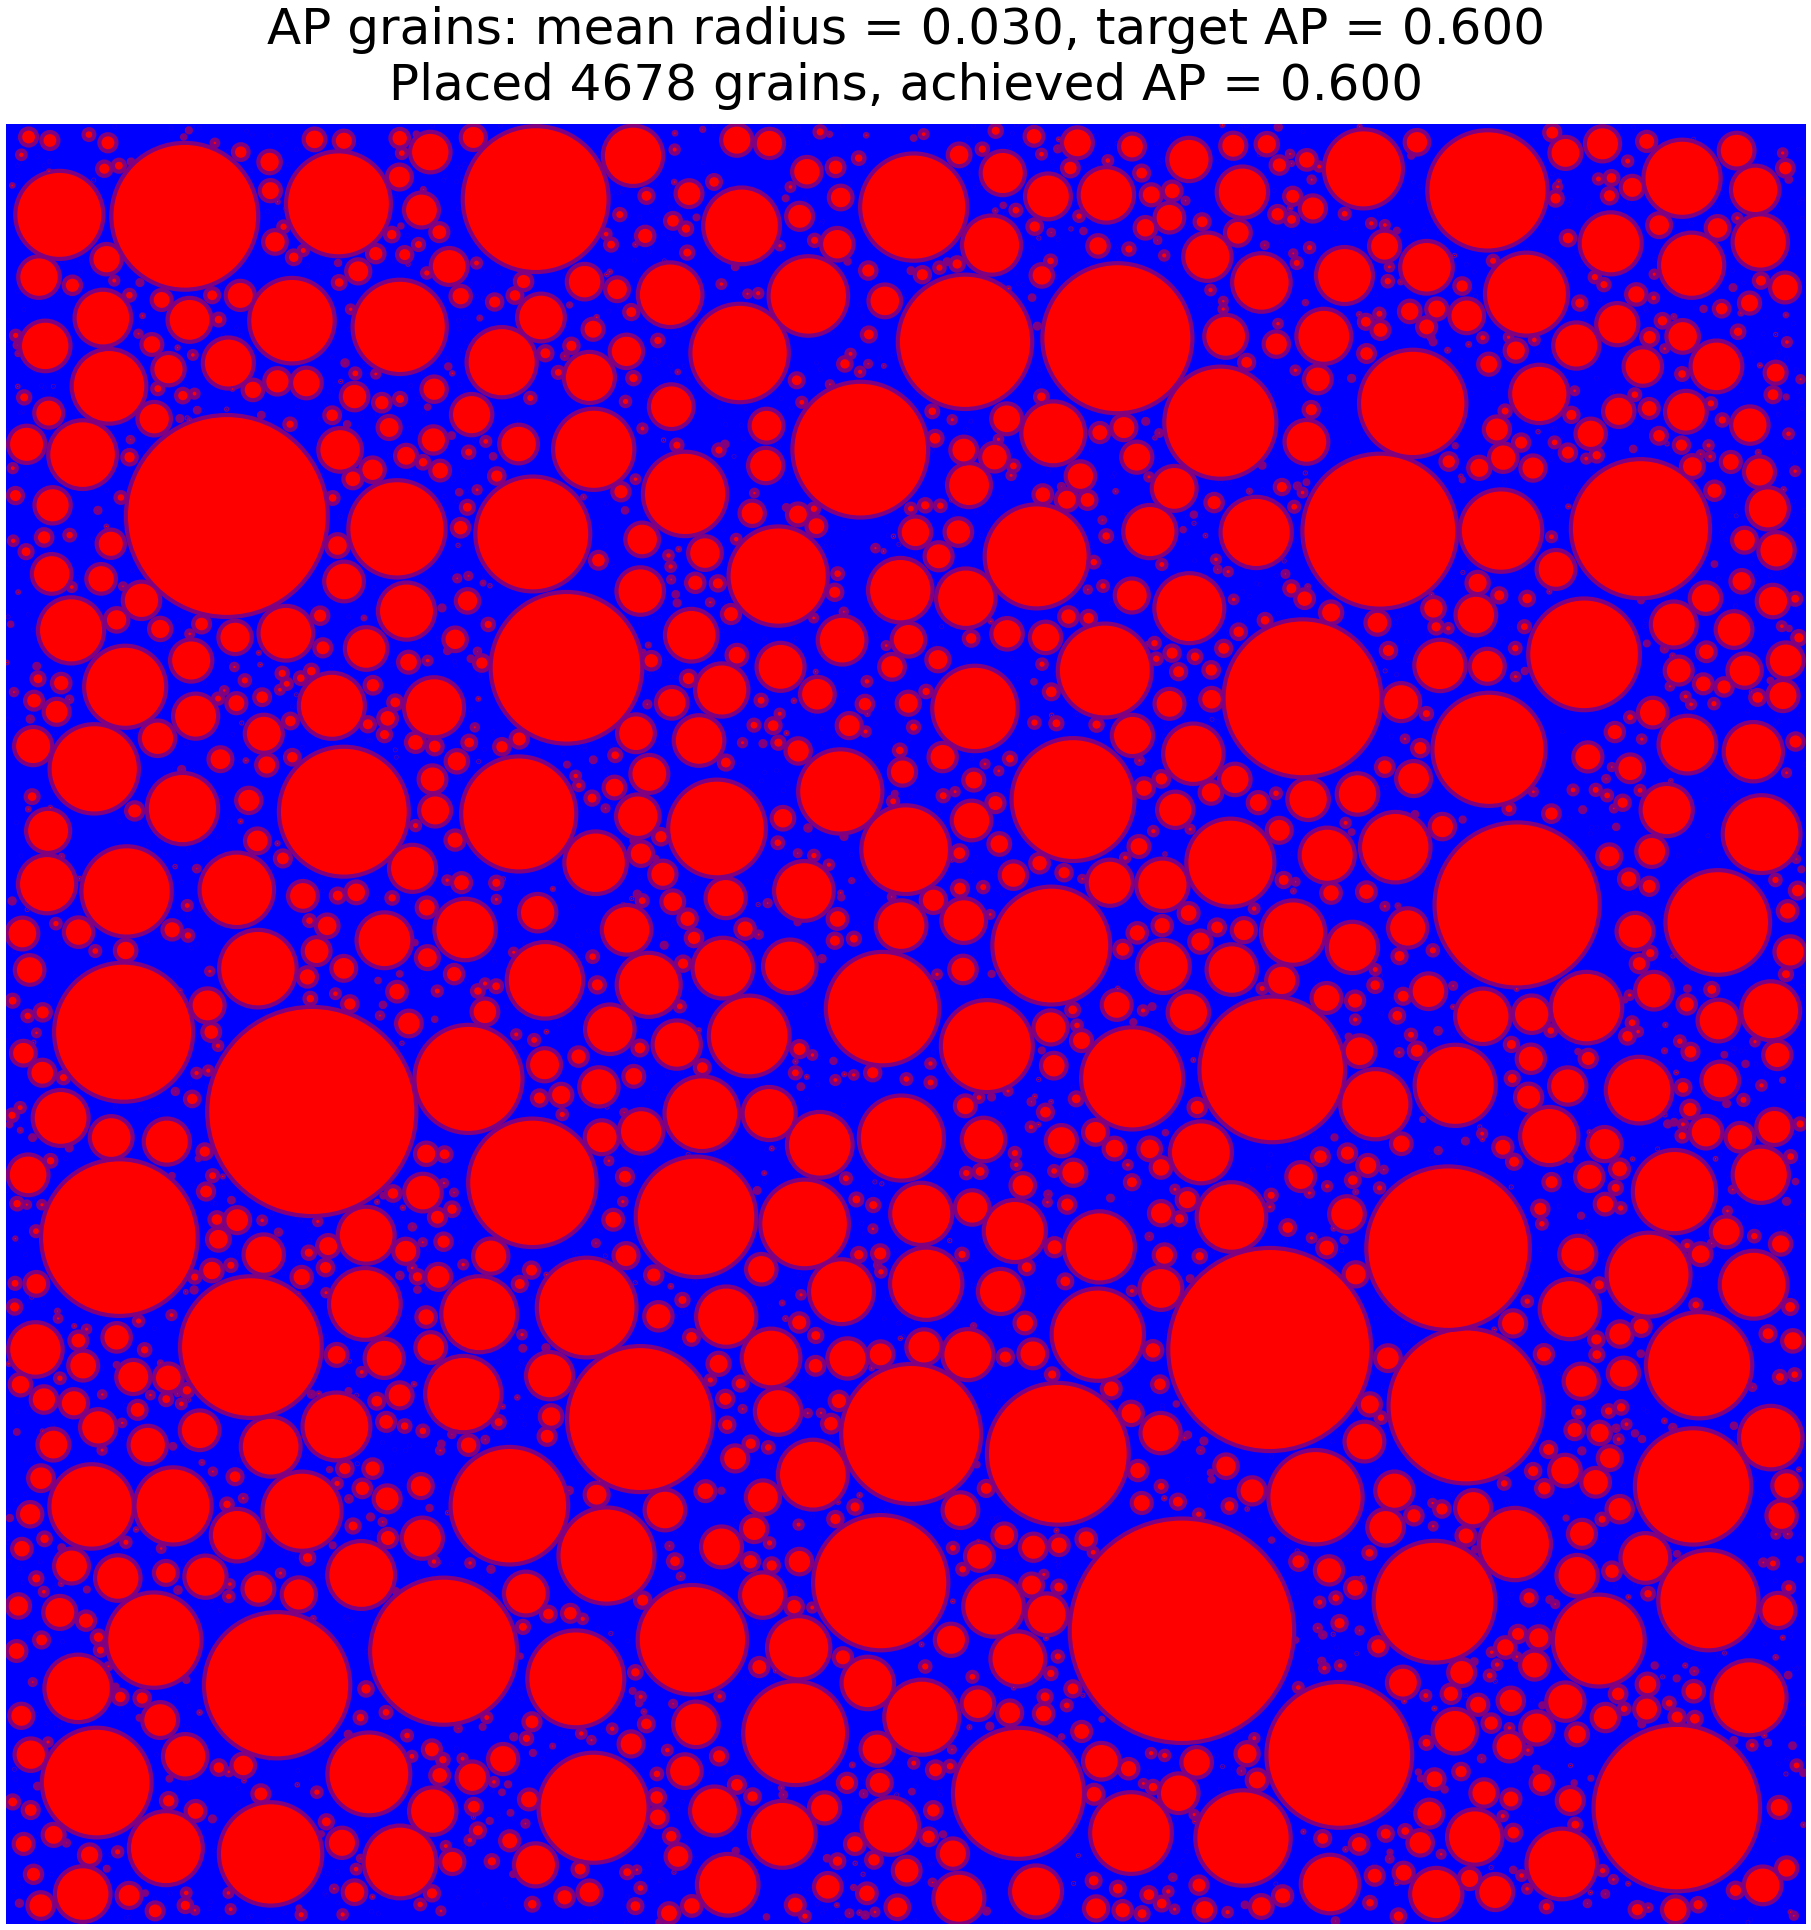
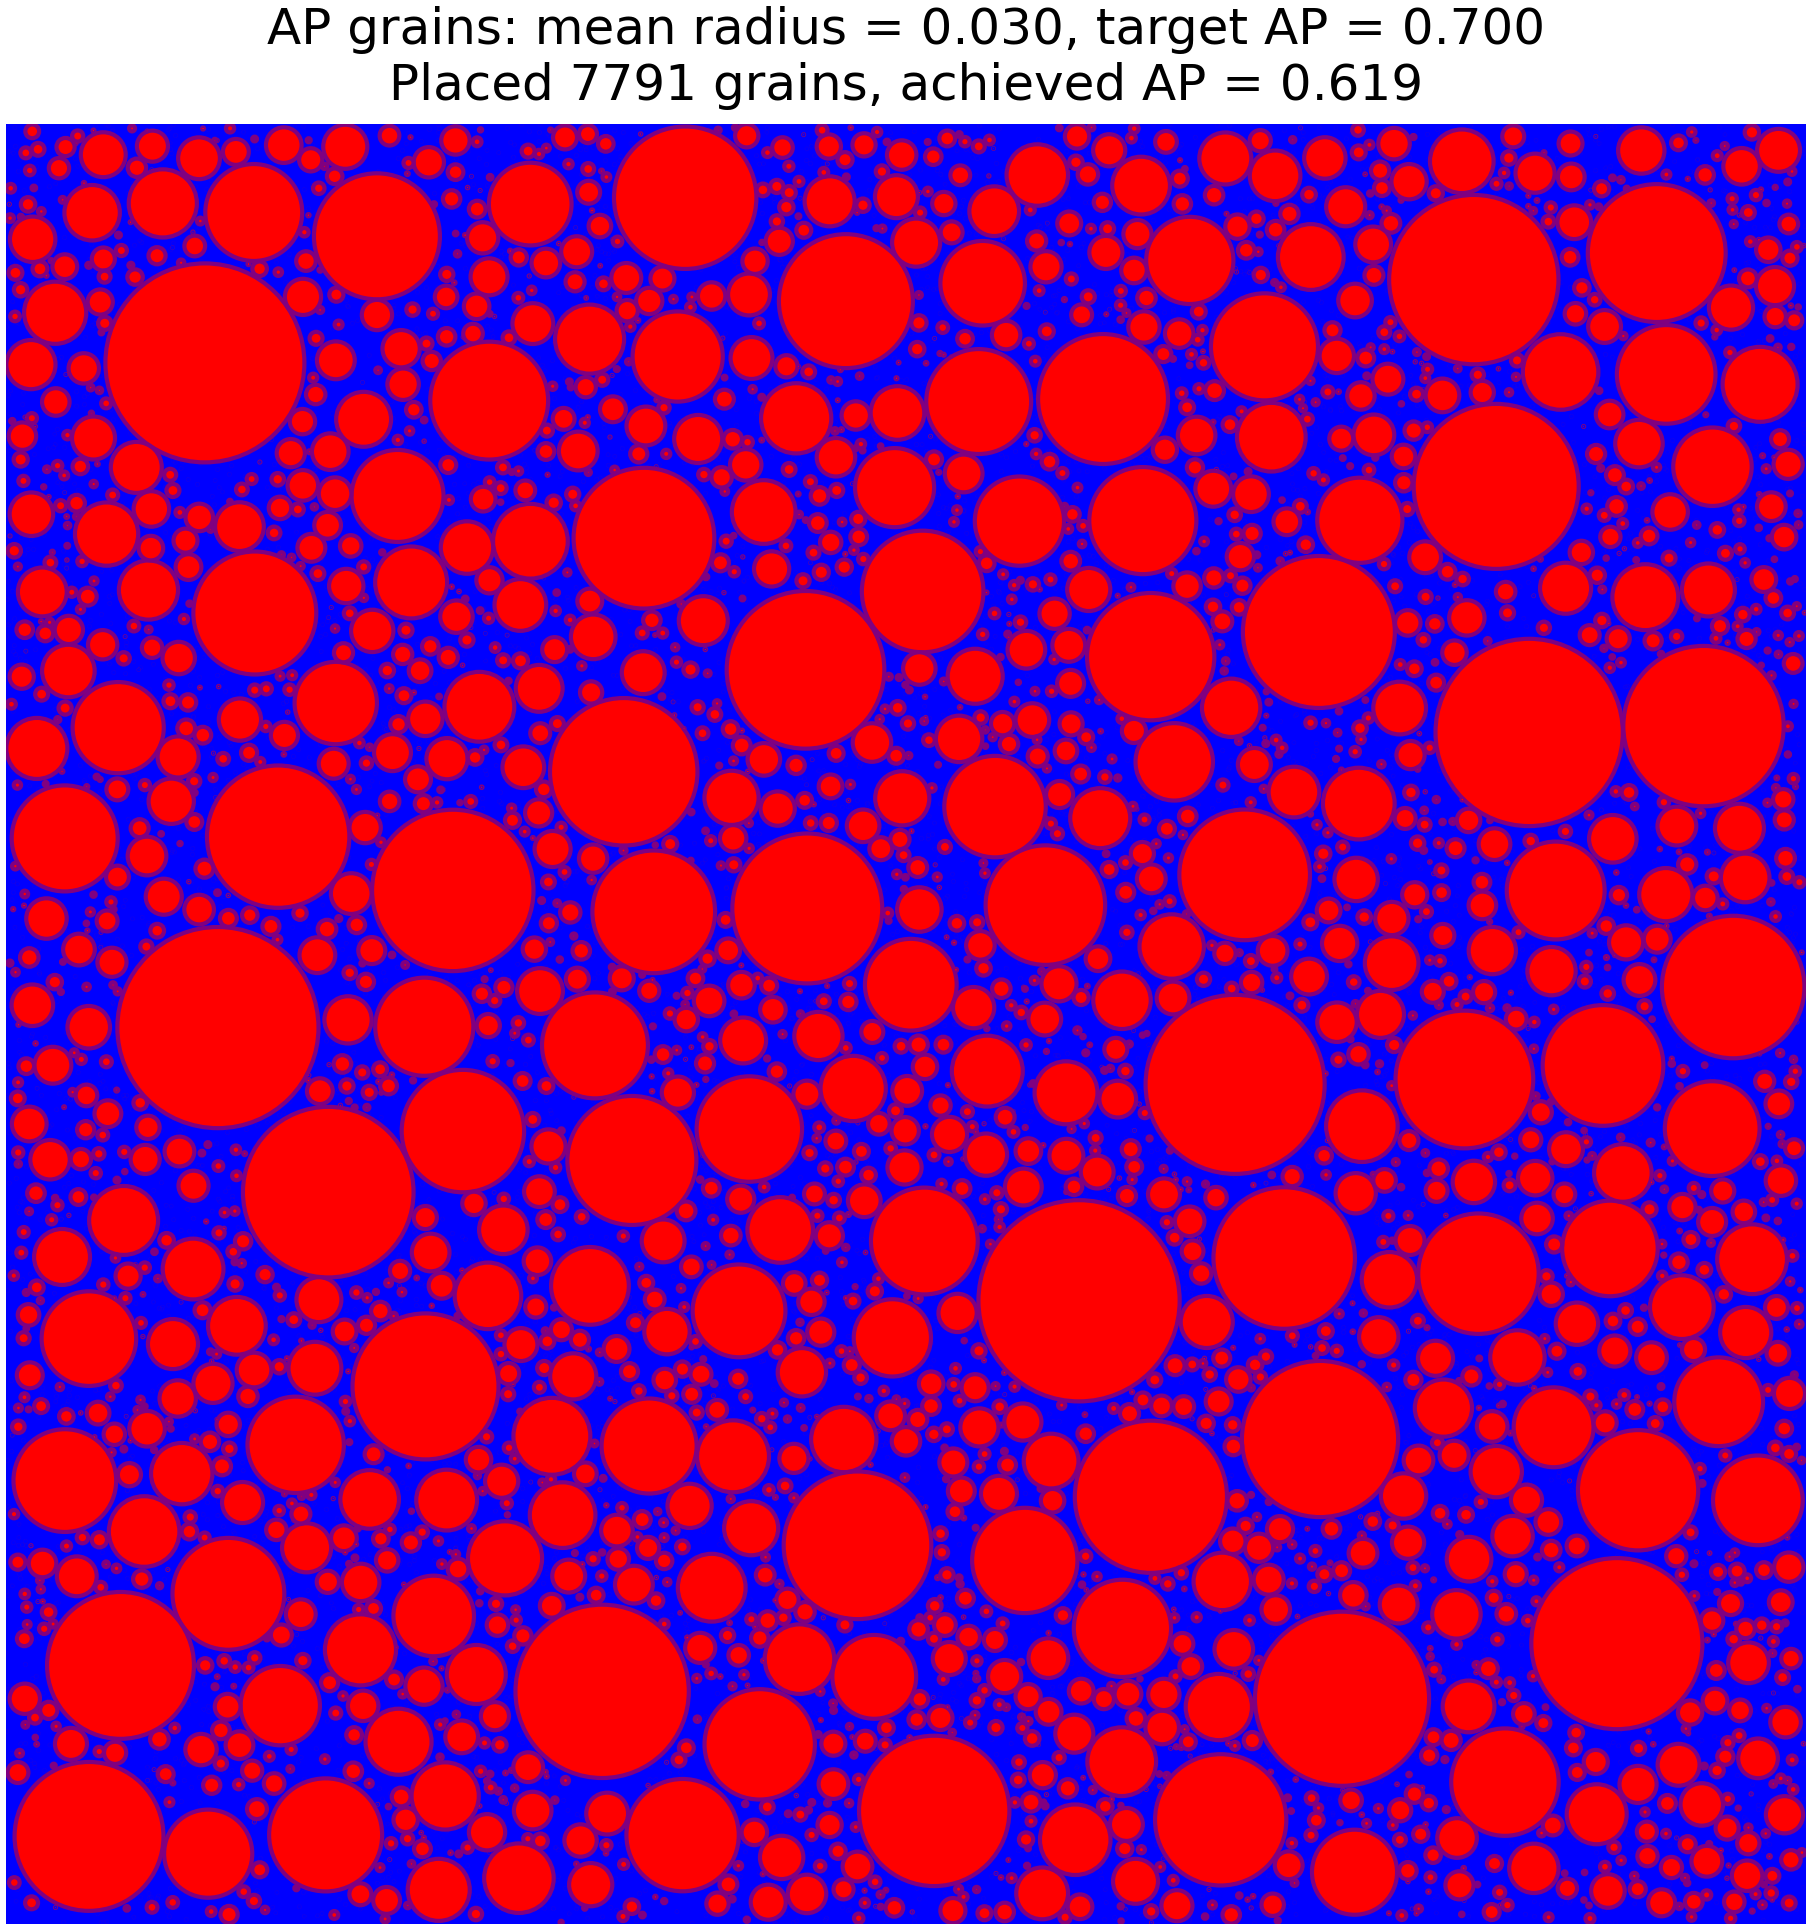
added .gitignore, edited gen_meso

diff --git a/gen_meso.py b/gen_meso.py
@@ -23,6 +23,7 @@ ap_ratio = 0.6 #60% AP
 rad_dev = 0.5 #standard deviation of radius sizes, normal distribution
 max_attempts = 500000 #will try to generate an image 500000 times before it gives up
 
+
 def gen_struct(save_path, save_path_untitled, img_size, mean_radius, ap_ratio, rad_dev, max_attempts):
     '''Generate a 2D microstructure assuming perfect circles, normal distribution
         returns untitled and titled images'''
@@ -45,7 +46,7 @@ def gen_struct(save_path, save_path_untitled, img_size, mean_radius, ap_ratio, r
     attempts = 0
     
     #use grid setup to check for overlap, rather than checking every grain every time
-    cell_size = 2.5 * mean_rad
+    cell_size = 4 * mean_rad
     n_cells = max(1, int(math.ceil(img_size / cell_size))) #numb er of cells in image
     
     grid = [[[] for _ in range(n_cells)] for __ in range(n_cells)] #empty grid
@@ -69,45 +70,64 @@ def gen_struct(save_path, save_path_untitled, img_size, mean_radius, ap_ratio, r
 
     #main function: place AP circles until we get to target area of AP 
     
-    while total_area < target_AP_area and attempts < max_attempts:
-        attempts += 1
+    max_tries = 5  # number of times to retry the whole image
+    success = False
+    best_circles = None
+    best_total_area = 0
+    for retry in range(max_tries):
+        # reset grid and circles
+        circles = []
+        grid = [[[] for _ in range(n_cells)] for __ in range(n_cells)]
+        total_area = 0
+        attempts = 0
         
-        #normal distribution for radii
-
-        #generate a number from normal dist
-        r = float(rng.normal(mean_rad, rad_dev * mean_rad))
-        #ensure no negative values, minimum radius 0.00001
-        r = max(r, 0.00001)
-        #ensure no radii bigger than 1/4 the image's width
-        r = min(r, 0.25 * img_size)
-        
-        #random coordinate for center of circle
-        '''want to see later if this works to plot some outside the domain,
-            and have some circles overlap with the edge of the image'''
-        
-        x = rng.uniform(r, img_size - r) #make sure it stays inside bounds
-        y = rng.uniform(r, img_size - r)
-        
-        #assume placement is valid until overlaps
-        valid = True
-        
-        #check for overlap
-        for (cx, cy, cr) in nearby_candidates(x, y):
-            if (cx - x)**2 + (cy - y)**2 < (cr + r)**2:
-                valid = False
-                break
-
-        if not valid:
-            continue #don't place
+        while total_area < target_AP_area and attempts < max_attempts:
+            attempts += 1
             
-        #accept placement, add to list
-        circles.append((x, y, r))
-        #add to grid
-        gx, gy = cell_coords(x, y)
-        grid[gx][gy].append(len(circles) - 1)
-        
-        total_area += math.pi * r**2
-    
+            #normal distribution for radii
+            #generate a number from normal dist
+            r = float(rng.normal(mean_rad, rad_dev * mean_rad))
+            #ensure no negative values, minimum radius 0.00001
+            r = max(r, 0.00001)
+            #ensure no radii bigger than 1/4 the image's width
+            r = min(r, 0.25 * img_size)
+            
+            #random coordinate for center of circle
+            '''want to see later if this works to plot some outside the domain,
+            and have some circles overlap with the edge of the image'''
+            
+            x = rng.uniform(r, img_size - r) #make sure it stays inside bounds
+            y = rng.uniform(r, img_size - r)
+            
+            #assume placement is valid until overlaps
+            valid = True
+            
+            #check for overlap
+            for (cx, cy, cr) in nearby_candidates(x, y):
+                if (cx - x)**2 + (cy - y)**2 < (cr + r)**2:
+                    valid = False
+                    break
+            
+            if not valid:
+                continue #don't place
+                    
+            #accept placement, add to list
+            circles.append((x, y, r))
+            #add to grid
+            gx, gy = cell_coords(x, y)
+            grid[gx][gy].append(len(circles) - 1)
+            
+            total_area += math.pi * r**2
+            
+            #keep the best try
+            if best_circles is None or abs(total_area - target_AP_area) < abs(best_total_area - target_AP_area):
+                best_circles = circles.copy()
+                best_total_area = total_area
+            
+            if total_area >= target_AP_area - 0.001:
+                break
+    circles = best_circles
+    total_area = best_total_area
     #untitled 1024 x 1024 
     #making the actual figure
     fig2, ax2 = plt.subplots(figsize=(6, 6), dpi=1024/6) #resolution 1024
@@ -156,15 +176,13 @@ def gen_struct(save_path, save_path_untitled, img_size, mean_radius, ap_ratio, r
             f"AP grains: mean radius = {mean_radius:.3f}, target AP = {ap_ratio:.3f}\n"
             f"Placed {len(circles)} grains, achieved AP = {total_area/img_area:.3f}"
     )
-    plt.tight_layout()
     fig.savefig(save_path, dpi=300, bbox_inches="tight", pad_inches=0.02)
     
     plt.close(fig)
-
     
     return save_path, save_path_untitled
 
-    
+
 
 if __name__ == "__main__":
     save_path, save_path_untitled = gen_struct(save_path, save_path_untitled, img_size, mean_radius, ap_ratio, rad_dev, max_attempts)

diff --git a/params.py b/params.py
@@ -1,0 +1,88 @@
+'''
+Changing parameters to see correlation with AP/HTPB/Interface ratios
+Make a bunch of for loops, changing one param at a time
+
+Do 10 random generators per param change
+radius size: go from 1% to 10%, 100 steps
+% comp: 30% to 80%, 100 steps
+
+last: standard deviation, 0.3 to 0.8, 100 steps
+plot param vs %AP, %HTPB, and % interface on separate plots
+'''
+
+import numpy as np
+import os
+import gen_meso as gm
+import line_comp as lc
+
+#temporary file directory
+folder = "./generated_images"
+os.makedirs(folder, exist_ok=True)  # create folder if it doesn't exist
+
+# Full path for saving the figure
+temp_ignore = os.path.join(folder, "ignore.png") #we won't actually use this
+temp_img = os.path.join(folder, "temp_meso.png")
+img_trimmed = os.path.join(folder, "trimmed.png")
+
+
+
+#set of points to test for each parameter
+radius_set = np.linspace(0.02, 0.1, 5)
+comp_set = np.linspace(0.40, 0.80, 2)
+dev_set = np.linspace(0.3, 0.8, 50)
+
+#set other parameters as constant while testing one
+radius_const = np.median(radius_set) #0.055
+comp_const = np.median(comp_set) #0.6
+dev_const = np.median(dev_set) #0.45
+
+n = len(radius_set)
+
+def test_radius(radius_set):
+    combined_avg = [] #this will be compositions, AP/HTPB/Interface
+    '''Test a parameter while keeping the others constant'''
+    #do five microstructure generations and analyses per point
+    for i in range(n): #for each 
+        mini_list = []
+        for j in range(5):
+            img_trimmed = img_trimmed = os.path.join(folder, f"trimmed_{i}.png")
+            temp_ignore = os.path.join(folder, f"ignore_{i}.png")
+            gm.gen_struct(temp_ignore, temp_img, 1, radius_set[i], comp_const, dev_const, 50000)
+            lc.trim_edges(temp_img, img_trimmed)
+            mini_list.append(lc.vert_avg(img_trimmed))
+        combined_avg.append(np.mean(mini_list, axis=0))
+    return combined_avg
+
+def test_comp(comp_set):
+    combined_avg = [] #this will be compositions, AP/HTPB/Interface
+    '''Test a parameter while keeping the others constant'''
+    #do five microstructure generations and analyses per point
+    for i in range(n): #for each 
+        mini_list = []
+        for j in range(1):
+            img_trimmed = img_trimmed = os.path.join(folder, f"trimmed_{i}.png")
+            temp_ignore = os.path.join(folder, f"ignore_{i}.png")
+            gm.gen_struct(temp_ignore, temp_img, 1, radius_const, comp_set[i], dev_const, 50000)
+            lc.trim_edges(temp_img, img_trimmed)
+            mini_list.append(lc.vert_avg(img_trimmed))
+        combined_avg.append(np.mean(mini_list, axis=0))
+    return combined_avg
+
+def test_dev(dev_set):
+    combined_avg = [] #this will be compositions, AP/HTPB/Interface
+    '''Test a parameter while keeping the others constant'''
+    #do five microstructure generations and analyses per point
+    for i in range(n): #for each 
+        mini_list = []
+        for j in range(1):
+            img_trimmed = img_trimmed = os.path.join(folder, f"trimmed_{i}.png")
+            temp_ignore = os.path.join(folder, f"ignore_{i}.png")
+            gm.gen_struct(temp_ignore, temp_img, 1, radius_const, comp_const, dev_set[i], 50000)
+            lc.trim_edges(temp_img, img_trimmed)
+            mini_list.append(lc.vert_avg(img_trimmed))
+        combined_avg.append(np.mean(mini_list, axis=0))
+    return combined_avg
+
+if __name__ == "__main__":
+    list = test_radius(radius_set)
+    print(list)
